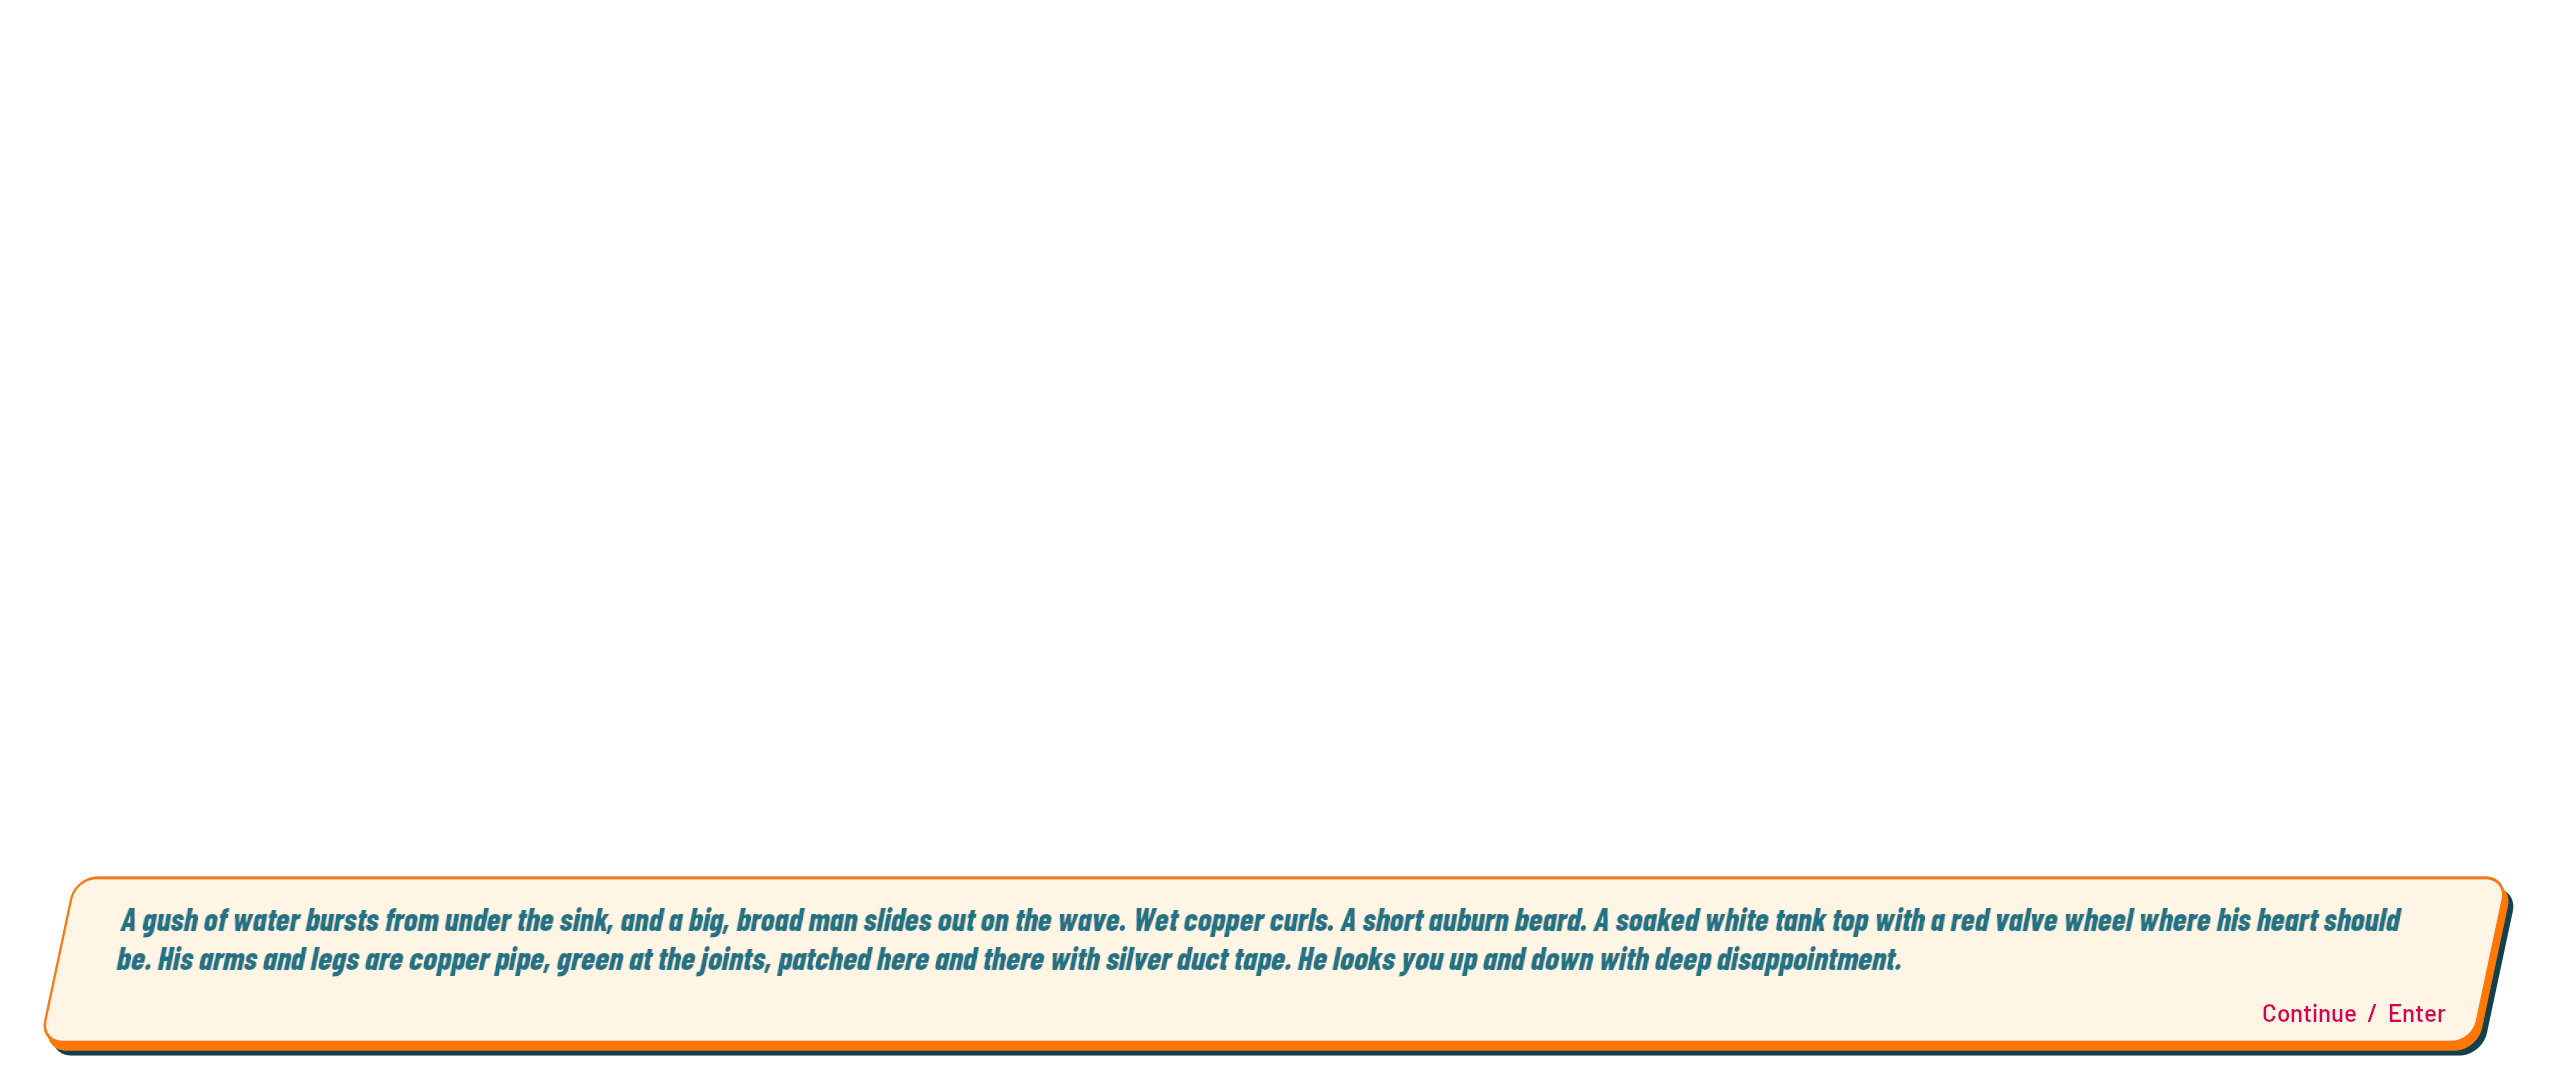
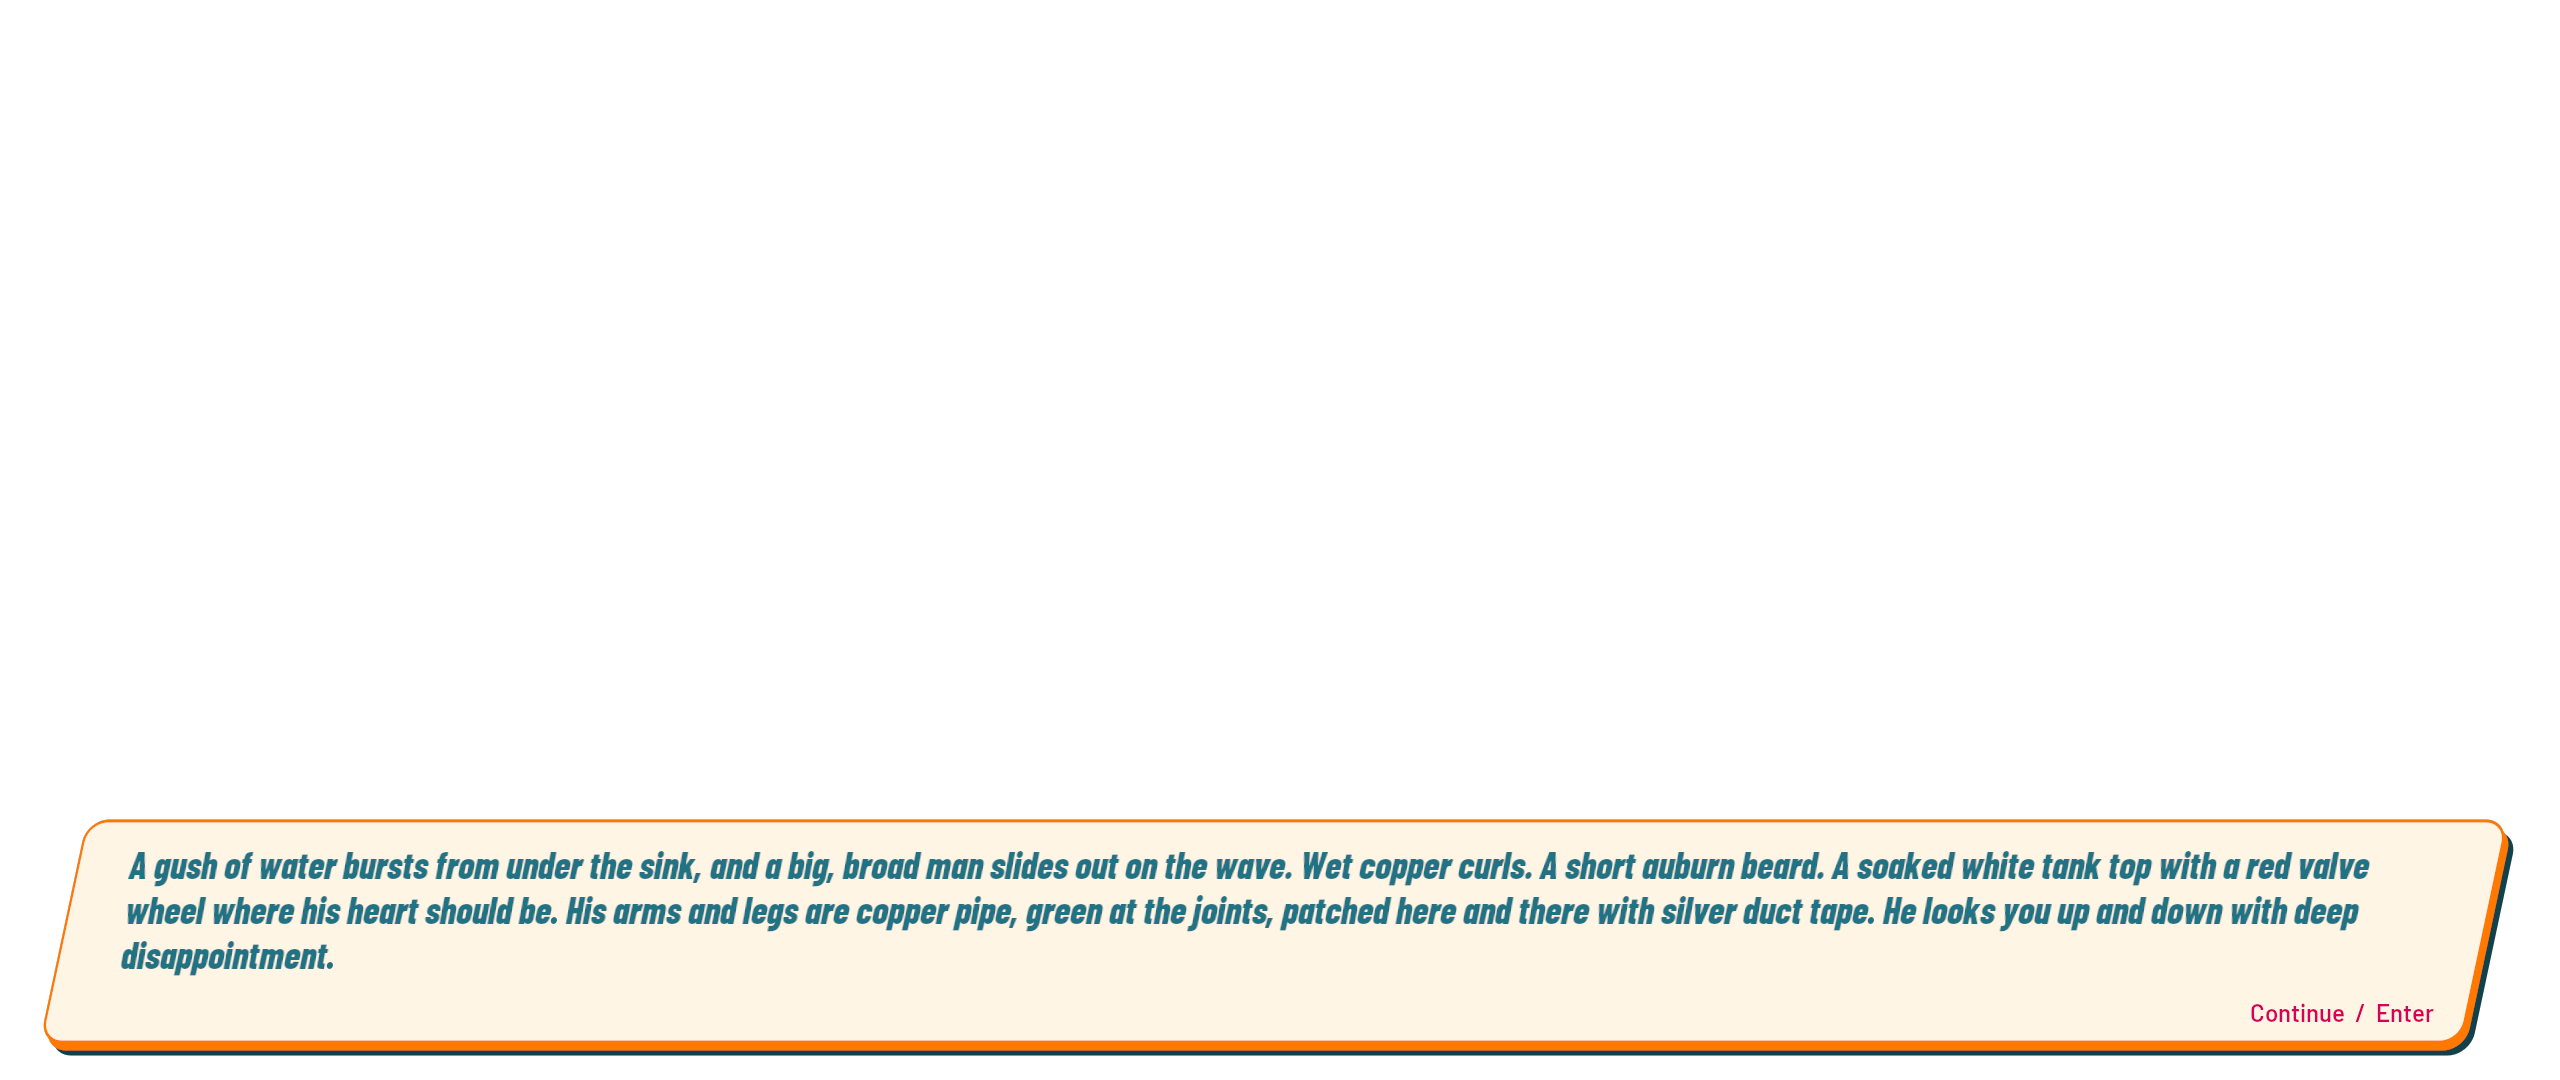
Fix spoken line reverting to 24 on widget construction
The typewriter text was authored at 24, so the construction-time text-scale
refresh reset it below the 28-unit reply size. Author it at the line size and
assert line and reply sizes match in the design-system test.

Changed region(s): [[0.0312, 0.7333, 1.0, 0.9778]]

diff --git a/Source/ICanFixHim/Tests/FixHimDesignSystemTest.cpp b/Source/ICanFixHim/Tests/FixHimDesignSystemTest.cpp
@@ -185,6 +185,16 @@ bool FFixHimDesignSystemTest::RunTest(const FString &Parameters)
 	});
 	TestEqual(TEXT("Four simultaneously visible complete replies"), ReplyCount, 4);
 	TestTrue(TEXT("Longest reply is never truncated"), FoundReply);
+	// Spoken line and replies share one size, after construction-time text-scale refreshes too.
+	int32 ReplySize = 0, LineSize = 0;
+	Dialogue->WidgetTree->ForEachWidget([&](UWidget *W) {
+		if (auto *B = Cast<UFixHimButton>(W); B && B->bDesignSurface && B->Label)
+			ReplySize = B->Label->GetFont().Size;
+		else if (auto *T = Cast<UTextBlock>(W); T && T->GetText().ToString().Contains(TEXT("remembers")))
+			LineSize = T->GetFont().Size;
+	});
+	TestTrue(TEXT("Spoken line text is rendered"), LineSize > 0);
+	TestEqual(TEXT("Spoken line matches reply font size"), LineSize, ReplySize);
 	View.Text = LongLine;
 	View.Speaker = EDialogueSpeaker::Narration;
 	View.Choices.Reset();

diff --git a/Source/ICanFixHim/UI/FixHimDialogueWidget.cpp b/Source/ICanFixHim/UI/FixHimDialogueWidget.cpp
@@ -172,7 +172,8 @@ void UFixHimDialogueWidget::BuildUI()
 	// Room inside the scroll clip for the sheared line, whose lower rows lean left of its layout box.
 	CastChecked<UScrollBoxSlot>(LineScroll->AddChild(TextArea))->SetPadding(FMargin(20, 0, 20, 0));
 	Col->AddChildToVerticalBox(LineBounds)->SetPadding(FMargin(0, 2, 0, 20));
-	TypingText = MakeText(WidgetTree, TEXT(""), 24, Plum);
+	// Authored at the line size: RefreshTextScale restores authored sizes when a cached screen reopens.
+	TypingText = MakeText(WidgetTree, TEXT(""), FixHimDesign::Line, Plum, TEXT("DisplayFace"));
 	TypingText->SetAutoWrapText(true);
 	TextArea->AddChildToOverlay(TypingText)->SetHorizontalAlignment(HAlign_Fill);
 	WordWrap = WidgetTree->ConstructWidget<UWrapBox>();
